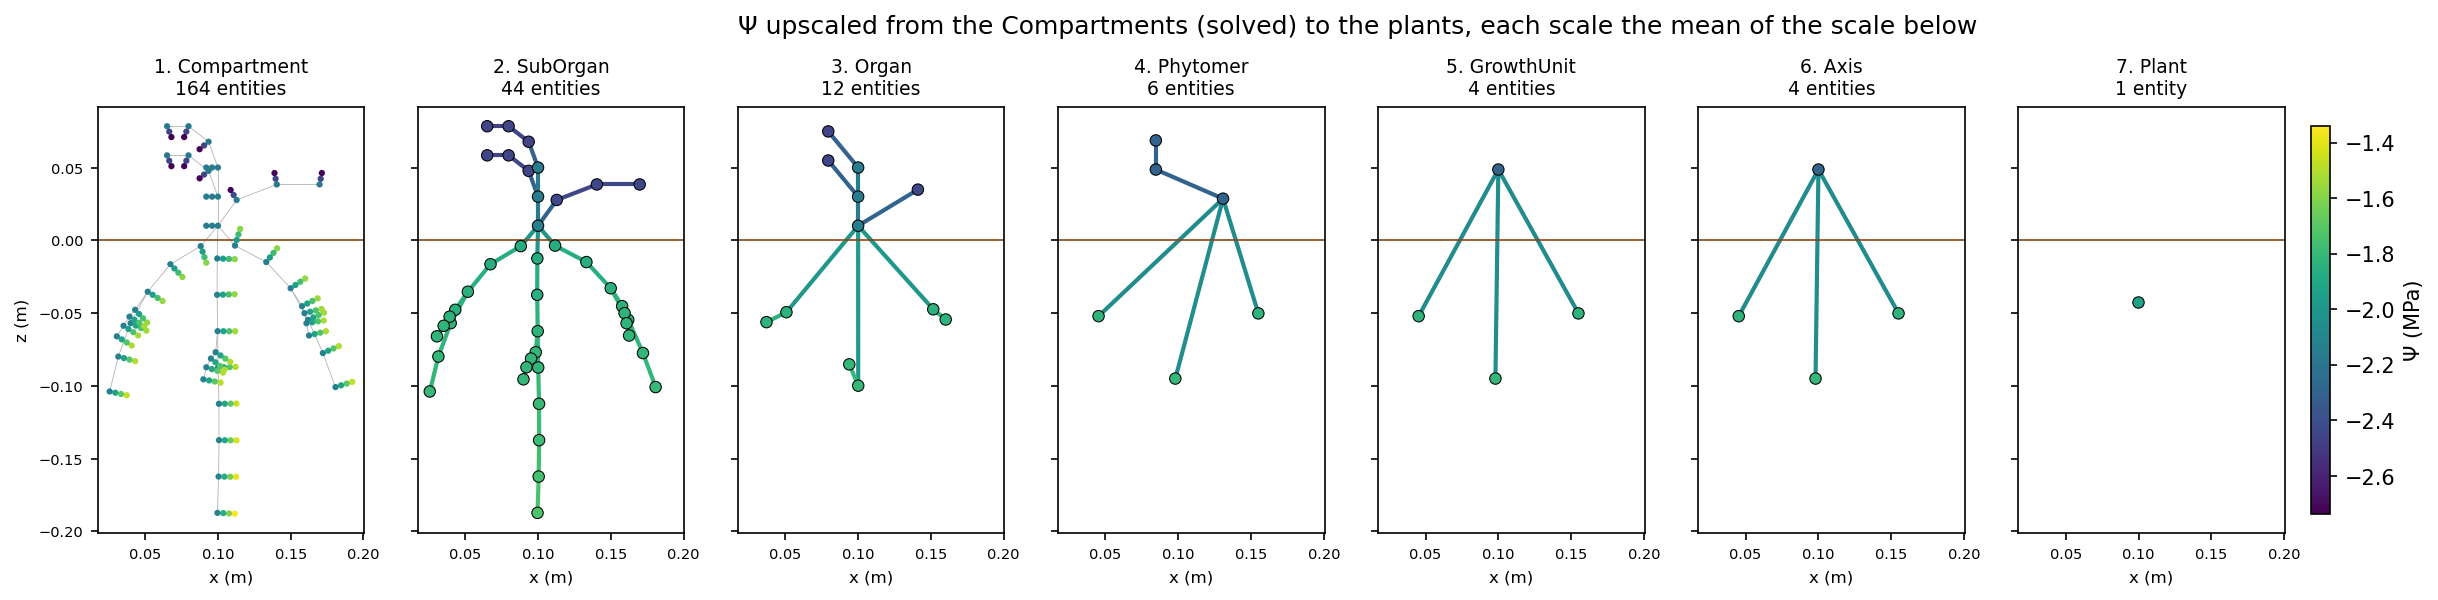
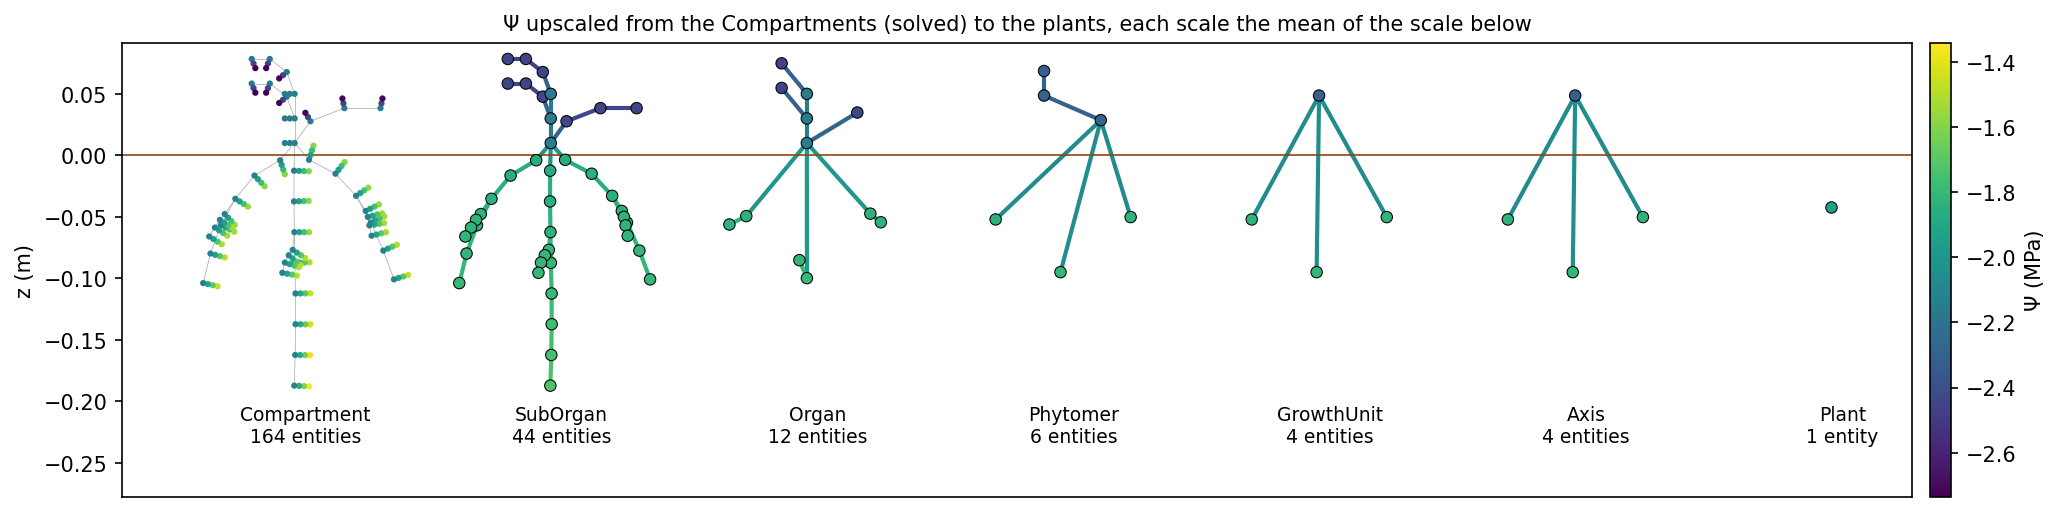
SPAC example: the upscaled scales in one plot, shifted by the same distance

diff --git a/examples/soil_plant_atmosphere/plotting.py b/examples/soil_plant_atmosphere/plotting.py
@@ -8,7 +8,7 @@ Plots of the example's DataStructures and of the converged water potentials on t
                         anomaly=True: Ψ minus its layer mean, the roots' depletion without the vertical gradient
     top_view            the stand from above: the water taken up per soil column, the segments drawn over it
     upscaling_series    the water potential upscaled from the Compartments to the plants (upscaling.py), the graph
-                        of each scale side by side, on one colour scale
+                        of each scale in one plot, shifted by the same distance, on one colour scale
 """
 import numpy as np
 import matplotlib
@@ -269,42 +269,53 @@ def _scale_graph(ds, scale, name, node_kept, h):
 
 def upscaling_series(ds, path, row=None):
     """
-    The upscaling of the water potential (Compartment, SubOrgan, Organ, Phytomer, GrowthUnit, Axis, Plant) side by
-    side in one figure: the graph of each scale, its entities as nodes (at the centroid of their segments) coloured
-    by their value, and its edges, the links between entities (an edge of the solver graph joining two of them),
-    coloured by the mean of their two nodes. One colour scale for all; side views of planting row *row* when given.
+    The upscaling of the water potential (Compartment, SubOrgan, Organ, Phytomer, GrowthUnit, Axis, Plant) in one
+    plot, each scale shifted by the same horizontal distance: the graph of each scale, its entities as nodes (at the
+    centroid of their segments) coloured by their value, and its edges, the links between entities (an edge of the
+    solver graph joining two of them), coloured by the mean of their two nodes. One colour scale; side views of
+    planting row *row* when given.
     """
     names = upscale(ds)
     kept, h = _row(ds, row)
     node_kept = kept[np.asarray(ds.owner("SubOrgan"))]
     norm = Normalize(vmin=float(np.min(ds.get("water_potential"))), vmax=float(np.max(ds.get("water_potential"))))
-    fig, axes = plt.subplots(1, len(names), figsize=(3.2 * len(names), 4.2), sharex=True, sharey=True)
-    for rank, (ax, (scale, name)) in enumerate(zip(axes, names.items()), start=1):
+    compartments = _compartment_positions(ds, h)[node_kept]
+    low, high = compartments[:, 0].min(), compartments[:, 0].max()
+    shift = 1.25 * (high - low)                                        # the same distance between the scales
+    bottom = compartments[:, 1].min()
+    fig, ax = plt.subplots(figsize=(2.2 * len(names), 4.5))
+    for rank, (scale, name) in enumerate(names.items()):
+        offset = np.array([rank * shift, 0.])
         if scale == "Compartment":
-            position = _compartment_positions(ds, h)
             index = {int(v): i for i, v in enumerate(ds.entity_ids("node"))}
             edges = np.array([[index[int(a)], index[int(b)]] for a, b in ds.edges()])
             edges = edges[node_kept[edges[:, 0]] & node_kept[edges[:, 1]]]
-            ax.add_collection(LineCollection(position[edges], colors="0.7", linewidths=0.4))
-            ax.scatter(position[node_kept, 0], position[node_kept, 1], s=4, cmap="viridis", norm=norm,
+            position = _compartment_positions(ds, h)
+            ax.add_collection(LineCollection(position[edges] + offset, colors="0.7", linewidths=0.4))
+            ax.scatter(*(position[node_kept] + offset).T, s=4, cmap="viridis", norm=norm,
                        c=np.asarray(ds.get(name))[node_kept], zorder=3)
             count = int(node_kept.sum())
         else:
             position, edges, values = _scale_graph(ds, scale, name, node_kept, h)
+            position = position + offset
             if len(edges):
                 edge_lines = LineCollection(position[edges], cmap="viridis", norm=norm, linewidths=2., zorder=2)
                 edge_lines.set_array(values[edges].mean(axis=1))             # an edge: the mean of its two nodes
                 ax.add_collection(edge_lines)
-            ax.scatter(position[:, 0], position[:, 1], c=values, cmap="viridis", norm=norm, s=30, edgecolors="k",
-                       linewidths=0.5, zorder=3)
+            ax.scatter(*position.T, c=values, cmap="viridis", norm=norm, s=30, edgecolors="k", linewidths=0.5,
+                       zorder=3)
             count = len(values)
-        ax.axhline(0., color="saddlebrown", linewidth=0.8)
-        ax.set_aspect("equal")
-        ax.set_title(f"{rank}. {scale}\n{count} {'entity' if count == 1 else 'entities'}", fontsize=9)
-        ax.set_xlabel("y (m)" if row is not None else "x (m)", fontsize=8)
-        ax.tick_params(labelsize=7)
-    axes[0].set_ylabel("z (m)", fontsize=8)
-    fig.suptitle("Ψ upscaled from the Compartments (solved) to the plants, each scale the mean of the scale below")
-    fig.colorbar(plt.cm.ScalarMappable(norm=norm, cmap="viridis"), ax=axes, label="Ψ (MPa)", shrink=0.8, pad=0.01)
+        ax.text(rank * shift + (low + high) / 2., bottom - 0.015,
+                f"{scale}\n{count} {'entity' if count == 1 else 'entities'}", ha="center", va="top", fontsize=9)
+    ax.axhline(0., color="saddlebrown", linewidth=0.8)
+    ax.autoscale()
+    ax.set_ylim(bottom=bottom - 0.09)
+    ax.set_aspect("equal")
+    ax.set_xticks([])
+    ax.set_ylabel("z (m)")
+    ax.set_title("Ψ upscaled from the Compartments (solved) to the plants, each scale the mean of the scale below",
+                 fontsize=10)
+    colour_bar = ax.inset_axes([1.01, 0., 0.012, 1.])                     # as tall as the plot
+    fig.colorbar(plt.cm.ScalarMappable(norm=norm, cmap="viridis"), cax=colour_bar, label="Ψ (MPa)")
     fig.savefig(path, dpi=150, bbox_inches="tight")
     plt.close(fig)

diff --git a/devlog.md b/devlog.md
@@ -2049,3 +2049,4 @@ Per-file counts:
 - **Soil-limited uptake (your request, option 2):** soil conductivities divided by about 3.3 (topsoil 1.5, subsoil 0.6). The horizontal anomaly of soil Ψ grows about 3× (population 0.019 → 0.052 MPa), but the vertical gradient grows as much (surface −1.4 → −4.4 MPa), so the slices still look layered. Leaf Ψ min −2.7 (one plant) and −5.8 MPa (population); converges in 6 and 9 steps.
 - **Soil anomaly view (your request):** `soil_slice(anomaly=True)` shows Ψ minus its layer mean on a diverging scale centred on 0; written as `soil_slice_anomaly.png` by both scenes. Root depletion columns (to about 0.03 MPa) are now visible.
 - **Upscaling figure (your requests):** each scale drawn as its own graph (entities as nodes at the centroid of their segments, edges = links between entities in the solver graph, coloured by the mean of their nodes), and all seven scales side by side in one figure, `upscaling.png`, with a shared colour bar. While doing it, a per-scale plotting version hung (fixed by the rewrite).
+- **Upscaling figure in one plot (your request):** the seven scale graphs drawn in a single plot, each shifted by the same horizontal distance, labelled below, with a colour bar as tall as the plot.

diff --git a/examples/soil_plant_atmosphere/README.md b/examples/soil_plant_atmosphere/README.md
@@ -46,7 +46,7 @@ mean shows where the roots deplete the soil:
 
 The solved potentials of the 164 Compartments are averaged into the 44 segments, then the 12 organs, the 6
 phytomers, the 4 growth units, the 4 axes and the plant: every scale of the MPG (`upscaling.py`). Each step is one
-`derive`. Each panel draws the graph of its scale: its entities as nodes, coloured by their value, and the links
+`derive`. The figure draws the graph of each scale, side by side at the same spacing: its entities as nodes, coloured by their value, and the links
 between them (an edge of the solver graph joining two entities), on one colour scale.
 
 ![upscaling](figures/one_plant/upscaling.png)
